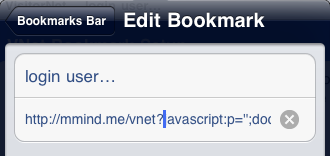
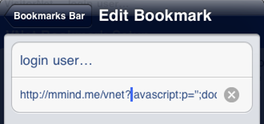
release 1.1.1, resized iPad UI images, bumped version

diff --git a/src/vnet.html b/src/vnet.html
@@ -205,9 +205,9 @@
 			<h1>Step 2: Add a Bookmark</h1>
 			<div class="grp">
 				<p>Tap the add button on the toolbar. Then select <b>Add Bookmark</b></p>
-				<div class="fig"><img class="fig" src="img/bkaddi.png" alt="add bookmark" width="282" height="198"></div>
+				<div class="fig"><img class="fig" src="img/bkaddi.png" alt="add bookmark" width="225" height="158"></div>
 				<p>Take note of the name (or edit it), and then tap <b>Save</b>.</p>
-				<div class="fig"><img src="img/bksavei.png" alt="save bookmark" width="330" height="219"></div>
+				<div class="fig"><img src="img/bksavei.png" alt="save bookmark" width="264" height="175"></div>
 			</div>
 			
 			<h1>Step 3: Edit the Bookmark</h1>
@@ -215,11 +215,11 @@
 				<p>Now edit the bookmark to turn it into a Pastelet. Tap the Bookmarks button in the toolbar.</p>
 				<p>Navigate to the bookmark you just saved. <i>Do not select the bookmark.</i></p>
 				<p>Tap <b>Edit</b> to make changes.</p>
-				<div class="fig"><img src="img/bkopeni.png" alt="open bookmarks" width="330" height="200"></div>
+				<div class="fig"><img src="img/bkopeni.png" alt="open bookmarks" width="264" height="160"></div>
 				<p>In the &ldquo;Edit&rdquo; pop-over, tap on the bookmark name.</p>
-				<div class="fig"><img src="img/bkmodifyi.png" alt="edit bookmarks" width="330" height="146"></div>
+				<div class="fig"><img src="img/bkmodifyi.png" alt="edit bookmarks" width="264" height="116"></div>
 				<p>In the <b>Edit Bookmark</b> pop-over, tap in the field that begins with &ldquo;<code><b>http:</b></code>&rdquo;. You need to edit the start of the text, so tap and then drag all the way to the left.</p>
-				<div class="fig"><img src="img/bkedit1i.png" alt="edit bookmark start" width="330" height="156"></div>
+				<div class="fig"><img src="img/bkedit1i.png" alt="edit bookmark start" width="264" height="120"></div>
 				<p>Place the edit point between the &ldquo;<code><b>?</b></code>&rdquo; and the &ldquo;<code><b>j</b></code>&rdquo;. Then tap the delete key until the edit point is at the start of the line. When done, the bookmark should look like:</p>
 				<div class="fig"><img src="img/bkedit2i.png" alt="edit bookmark finish" width="304" height="90"></div>
 			</div>
@@ -235,7 +235,7 @@
 			<h1>Using the VNet Pastelet</h1>
 			<div class="grp">
 				<p>Open the VisitorNet sign-in page, then &ldquo;paste&rdquo; the VNet Username by selecting the Pastelet bookmark. Just tap the bookmarks icon.</p>
-				<div class="fig"><img src="img/bkopeni.png" alt="open bookmarks" width="330" height="200"></div>
+				<div class="fig"><img src="img/bkopeni.png" alt="open bookmarks" width="264" height="160"></div>
 				<p>Then tap on the Pastelet bookmark to paste in the Username, check the &ldquo;Agree to Terms&rdquo; box and set input focus on the password field.</p>
 				<p><b>PRO TIP</b></p>
 				<p>Use the <a href="img/Always_Show_Bookmarks_bar.png">Settings app &mdash; Safari</a> settings to set <b>Always Show Bookmarks Bar</b> as <b>ON</b> and save (<i>or move</i>) the VNet login bookmark to the <b>Bookmarks Bar</b> folder. Then you can more quickly tap the link for your login.</p>
